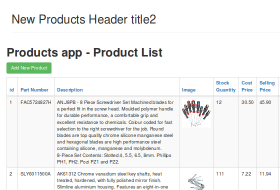
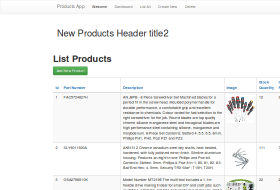
readme

diff --git a/view/delete.php b/view/delete.php
@@ -27,7 +27,7 @@ include_once "header.php";
 include_once "navbar.php"
 ?>
 <div id="products" class="container">
-
+    <div class="well">
                     <div class="row">
                         <h3>Delete a Product</h3>
                     </div>
@@ -37,9 +37,10 @@ include_once "navbar.php"
                       <p class="alert alert-error">Are you sure you wish to delete this product?</p>
                       <div class="form-actions">
                           <button type="submit" class="btn btn-danger">Yes</button>
-                          <a class="btn" href="index.php">No</a>
+                          <a class="btn" href="index.php?op=list">No</a>
                         </div>
                     </form>
+    </div>
 </div>
 
                 <?php

diff --git a/view/create.php b/view/create.php
@@ -50,8 +50,9 @@ include_once "navbar.php"
 		</div>
 
 		<input type="hidden" name="add-new-product" value="1">
-		<button type="submit" class="btn btn-success">Create</button>
-		<a class="btn btn-default" href="index.php">Back</a>
+
+		<button type="submit" class="btn btn-success"><span class="glyphicon glyphicon-save"></span>Save</button>
+		<a class="btn btn-default" href="index.php?op=list">Back</a>
 
 	</form>
 </div>

diff --git a/view/error.php b/view/error.php
@@ -1,1 +1,18 @@
-ERROR PAGE
+<?php
+include_once "header.php";
+include_once "navbar.php"
+?>
+<div>
+    <div class="content">
+        <div class="container">
+          <h2><p class="text-center">Ooops!</p></h2>
+
+          <p class="text-center">Please choose an action from the menu above</p>
+          </div>
+    </div>
+</div>
+
+
+<?php
+include_once "footer.php";
+?>

diff --git a/view/update.php b/view/update.php
@@ -53,7 +53,7 @@ include_once "navbar.php"
 		</div>
 
 		<input type="hidden" name="btn-save-updates" value="1">
-		<button type="submit" class="btn btn-success">Update</button>
+		<button type="submit" class="btn btn-success"><span class="glyphicon glyphicon-save"></span>Save</button>
 		<a class="btn btn-default" href="index.php?op=list">Back</a>
 
 	</form>

diff --git a/controller/ProductsController.php b/controller/ProductsController.php
@@ -84,7 +84,7 @@ class ProductsController
 				$this->productsService->storeImage($product->image);	//upload file
 
 				//prod created so alert user all OK
-				$this->redirect('index.php');//all done go to start
+				$this->redirect('index.php?op=list');//all done go to start
 			}
 		}
 		$this->renderView('create.php',$product,$errors);

diff --git a/view/listProducts.php b/view/listProducts.php
@@ -6,6 +6,7 @@ include_once "navbar.php"
 <div class="container">
 	<h1><strong>All Products</strong></h1>
 	<br>
+		<p><a href="index.php?op=new" class="btn btn-success">Add New Product</a></p>
 	<?php foreach ($product as $prod) : ?>
 		<div class="row  border">
 
